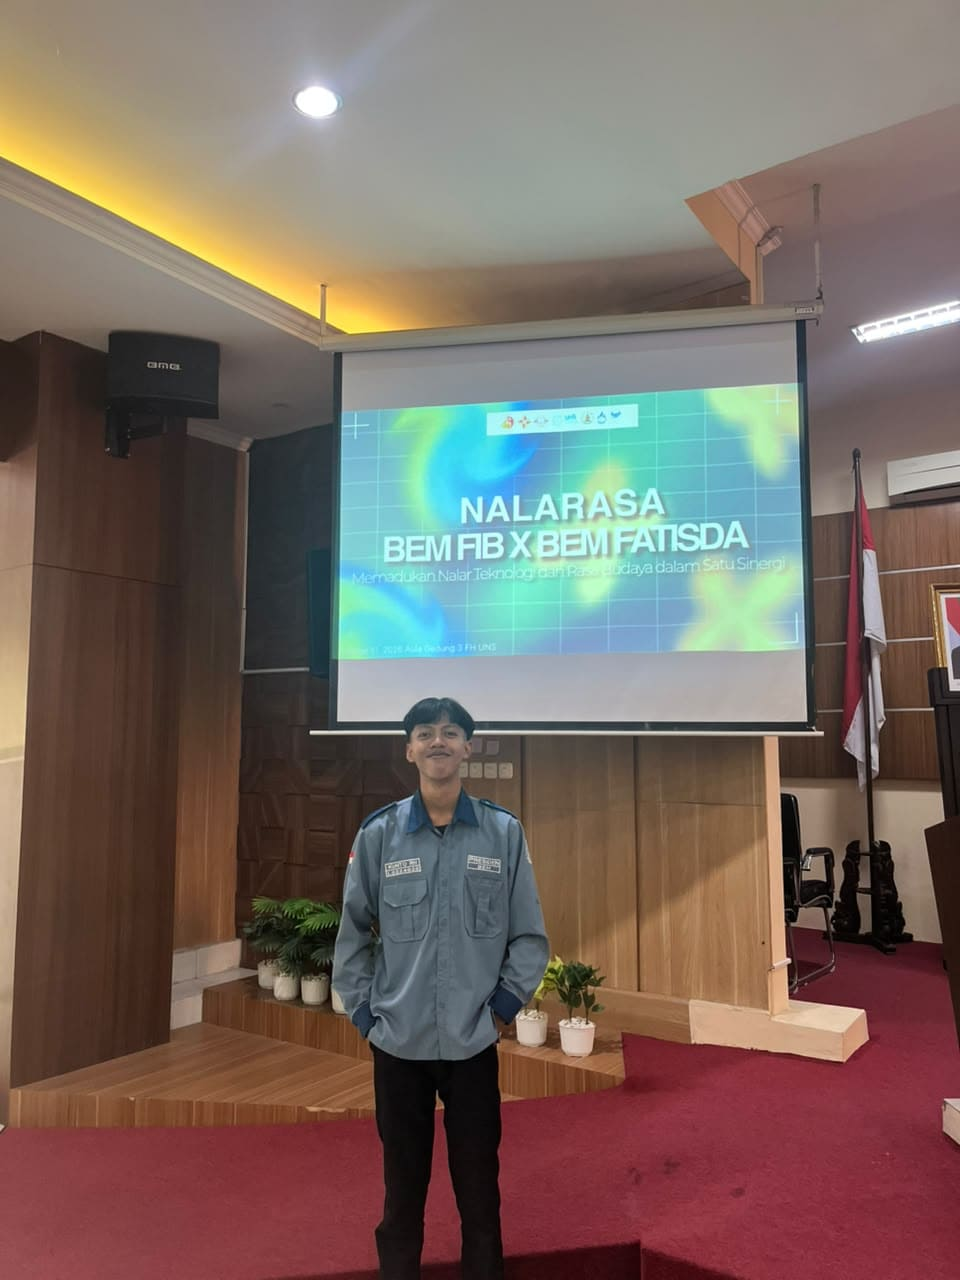
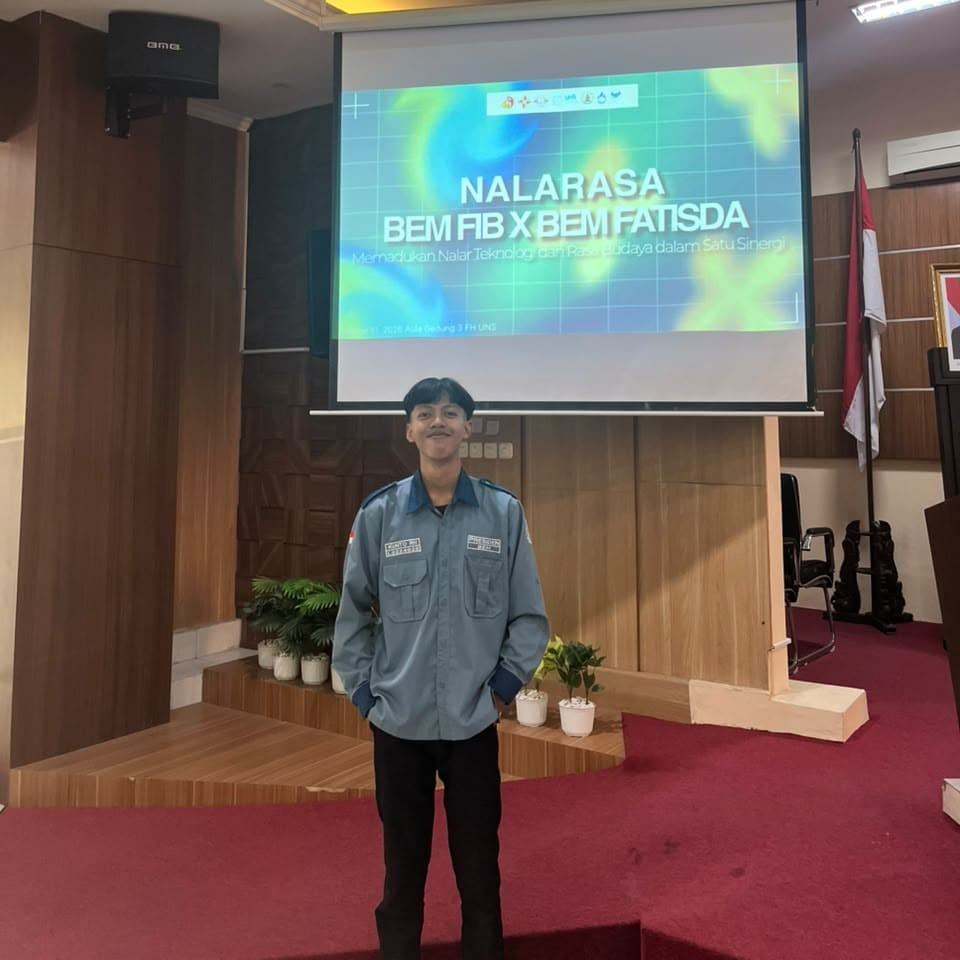
responsif mobile

diff --git a/app/page.tsx b/app/page.tsx
@@ -147,6 +147,24 @@ const dokumentasi: DokumentasiItem[] = [
     gambar: "/b.jpeg",
     date: "Februari 2026-Sekarang",
   },
+    {
+    id: 7,
+    deskripsi: "Kunjungan Internal BEM FATISDA x BEM SV UNS",
+    gambar: "/bemsv.JPG",
+    date: "Maret 2026",
+  },
+  {
+    id: 8,
+    deskripsi: "Kunjungan Eksternal BEM FATISDA UNS x HIMAKOM UGM",
+    gambar: "/kunex.JPG",
+    date: "Juni 2026",
+  },
+  {
+    id: 4,
+    deskripsi: "Steering Committee PKKMB FATISDA UNS",
+    gambar: "/pkkmb.jpeg",
+    date: "Mei-Agustus 2026",
+  },
   {
     id: 2,
     deskripsi: "Steering Committee PINGFEST",
@@ -160,34 +178,10 @@ const dokumentasi: DokumentasiItem[] = [
     date: "Februari 2026-Sekarang",
   },
   {
-    id: 4,
-    deskripsi: "Steering Committee PKKMB FATISDA UNS",
-    gambar: "/pkkmb.jpeg",
-    date: "Mei-Agustus 2026",
-  },
-  {
     id: 5,
     deskripsi: "Menteri Bisnis dan Kemitraan BEM FATISDA UNS",
     gambar: "/bem-2025.jpeg",
     date: "Februari-Desember 2025",
-  },
-  {
-    id: 6,
-    deskripsi: "Staff Fundraising PINGFEST",
-    gambar: "/pingfest25.jpg",
-    date: "April-November 2025",
-  },
-  {
-    id: 7,
-    deskripsi: "Kunjungan Internal BEM FATISDA x BEM SV UNS",
-    gambar: "/bemsv.JPG",
-    date: "Maret 2026",
-  },
-  {
-    id: 8,
-    deskripsi: "Kunjungan Eksternal BEM FATISDA UNS x HIMAKOM UGM",
-    gambar: "/kunex.JPG",
-    date: "Juni 2026",
   },
   {
     id: 9,
@@ -236,7 +230,13 @@ const dokumentasi: DokumentasiItem[] = [
     deskripsi: "Kunjungan Eksternal BEM FATISDA UNS x HMIF UII",
     gambar: "/kunex25.jpg",
     date: "November 2025",
-  }
+  },
+    {
+    id: 6,
+    deskripsi: "Staff Fundraising PINGFEST",
+    gambar: "/pingfest25.jpg",
+    date: "April-November 2025",
+  },
 ];
 
 const PROJECTS_DATA: Project[] = [
@@ -963,7 +963,7 @@ export default function Home() {
             </h2>
           </Reveal>
 
-          <div className="grid grid-cols-1 md:grid-cols-3 gap-6">
+          <div className="grid grid-cols-1 md:grid-cols-3 gap-6 items-stretch">
             {/* Bento 1: Bio */}
             <Reveal delay={100} className="md:col-span-2 h-full">
               <div className="h-full bg-white/85 backdrop-blur-md p-6 sm:p-8 rounded-2xl border-2 border-primary/10 shadow-sm flex flex-col justify-center">
@@ -989,12 +989,14 @@ export default function Home() {
 
             {/* Bento 2: Profile Photo Card */}
             <Reveal delay={220} className="h-full">
-              <div className="h-full bg-white/85 backdrop-blur-md text-background p-3 rounded-2xl shadow-sm flex flex-col justify-between group border-2 border-primary/10">
-                <div className="relative w-full h-80 md:h-full min-h-[260px] rounded-xl overflow-hidden bg-primary">
+              <div className="h-full bg-white/85 backdrop-blur-md text-background p-3 rounded-2xl shadow-sm flex flex-col group border-2 border-primary/10">
+                {/* Ubah h-80 md:h-full min-h-[260px] menjadi h-80 md:h-auto md:flex-1 md:min-h-0 */}
+                <div className="relative w-full h-80 md:h-auto md:flex-1 md:min-h-0 rounded-xl overflow-hidden bg-primary">
                   <img
                     src="/kunto.jpeg"
                     alt={PROFILE.nama}
-                    className="w-full h-full object-cover object-center group-hover:scale-150 transition-transform duration-500"
+                    /* Tambahkan md:absolute md:inset-0 agar gambar tidak mendorong tinggi card */
+                    className="w-full h-full md:absolute md:inset-0 object-cover object-center group-hover:scale-150 transition-transform duration-500"
                   />
                   <div className="absolute inset-0 bg-gradient-to-t from-primary/90 via-transparent to-transparent" />
                   <div className="absolute bottom-3 left-3 right-3 flex items-center justify-between gap-2">
